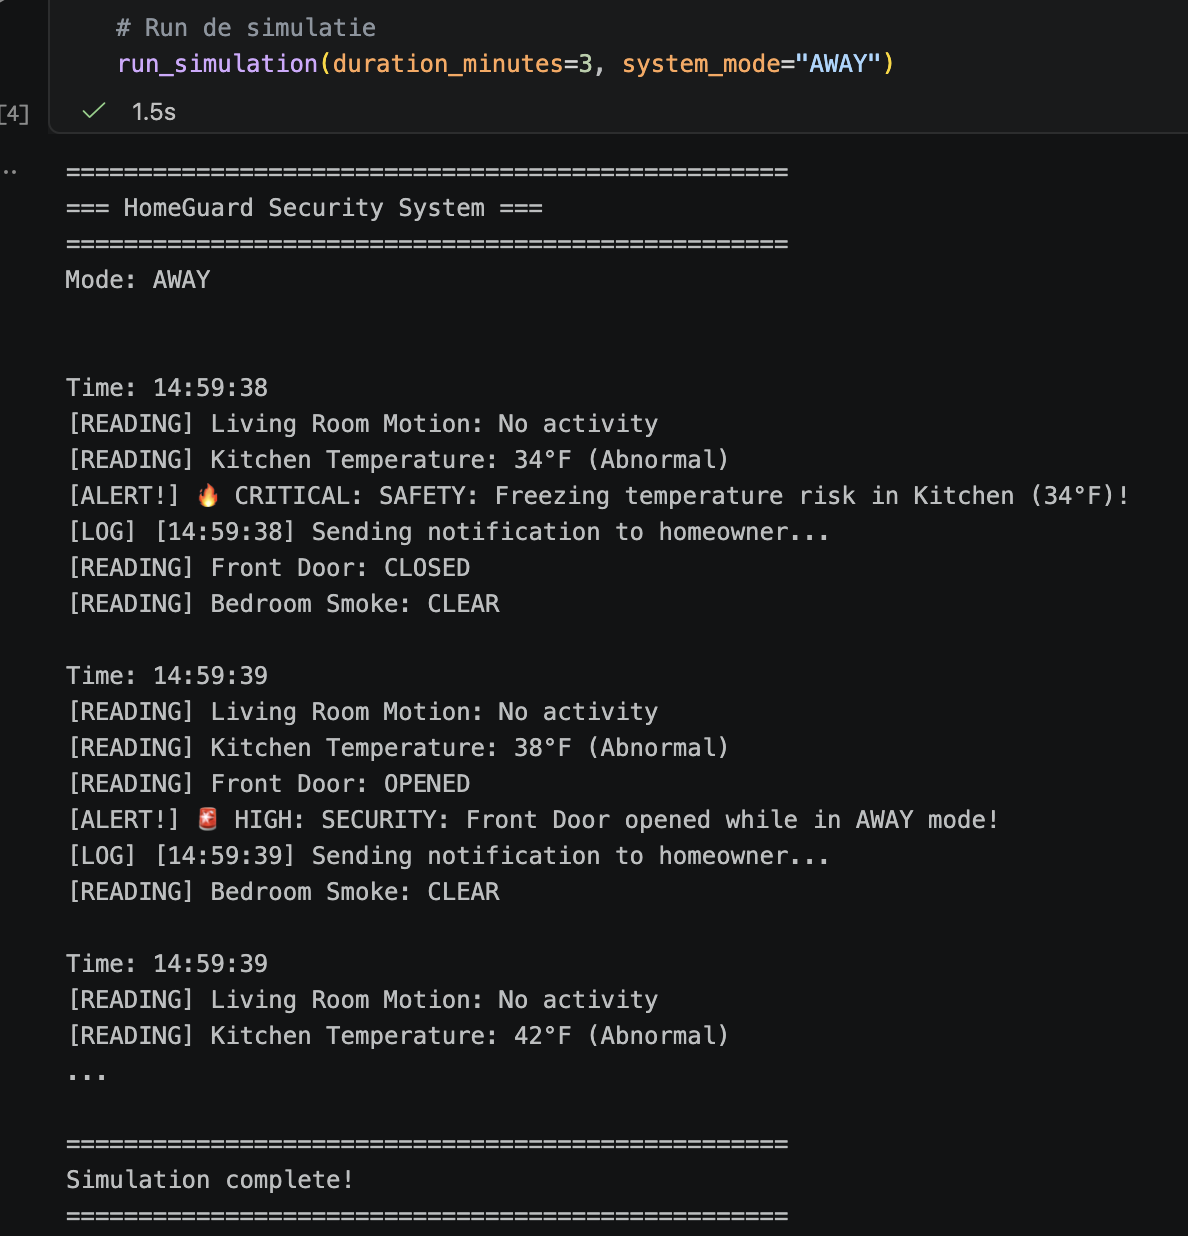
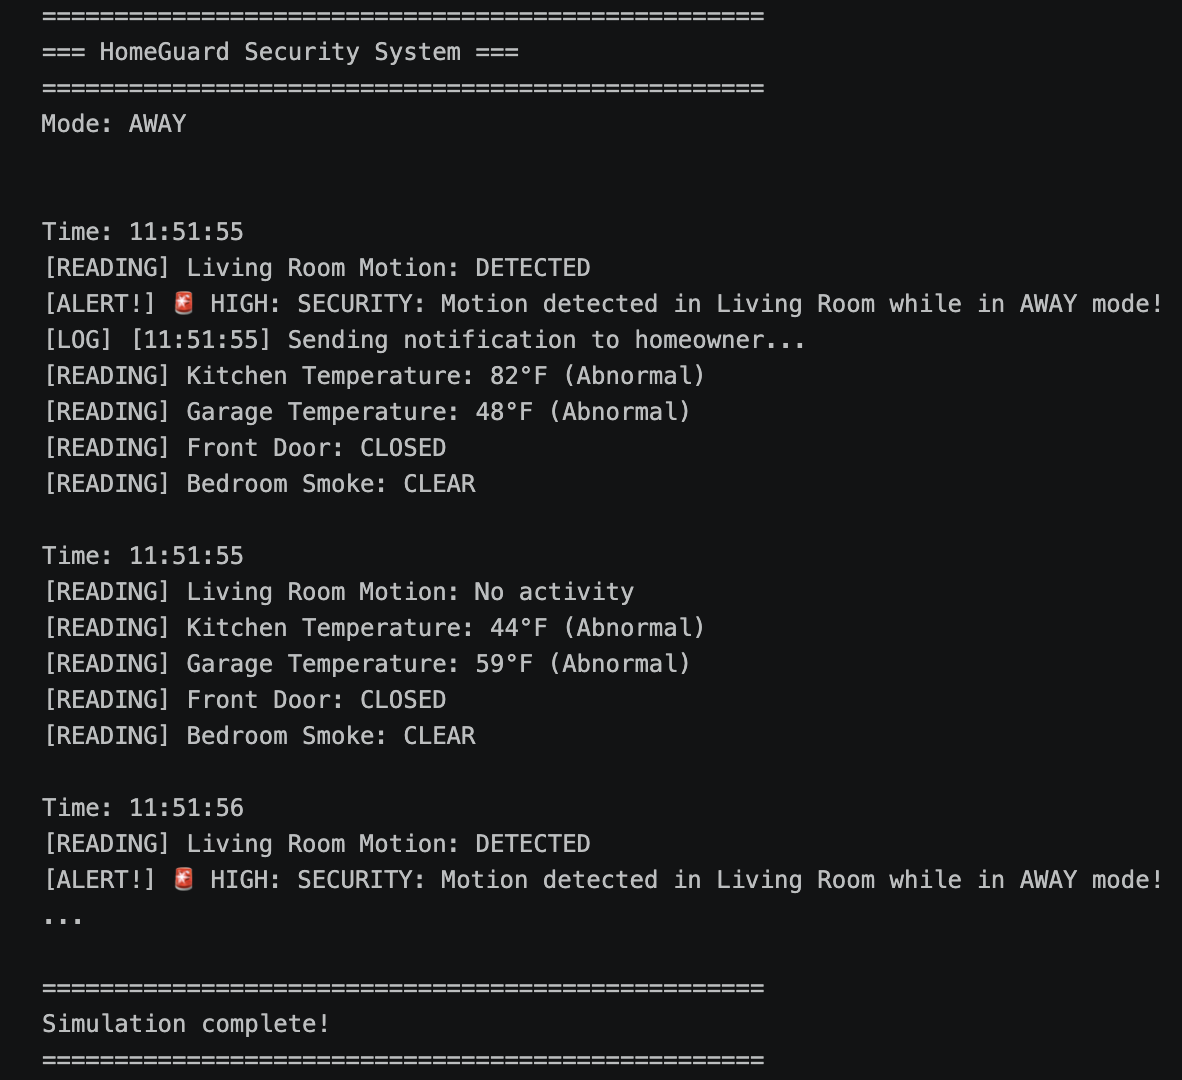
Add files via upload
Updated homeguard_system.ipynb with Challenge 4 implementation, updated lab_proof.md documentation, and refreshed simulation screenshot.

Changed region(s): [[0.0305, 0.0, 0.9746, 0.8556], [0.0305, 0.8861, 0.6701, 1.0], [0.8832, 0.3972, 0.9442, 0.4278]]

diff --git a/lab_proof.md b/lab_proof.md
@@ -1,11 +1,42 @@
-# Lab Proof: HomeGuard Security System Simulator
+# HomeGuard Security System
 
-- **Program Path:** `homeguard_system.ipynb`
-- **Run Command:** "Run All" in VS Code / Jupyter Notebook
+An integrated Python-based smart home security simulation developed and executed in a Jupyter Notebook (`.ipynb`) environment. The system models multi-sensor tracking, dynamic learning, false-alarm mitigation, and automated threat escalation.
 
-## Output Summary
-The simulator successfully executes multiple time iterations, reading sensor values (motion, temperature, door, smoke) and correctly evaluating rules against the system mode (e.g., AWAY). The output demonstrates active alerts when thresholds are breached.
+---
 
-## Edge Case Explanation
-- **Scenario:** The temperature drops to 34°F while the system is in *AWAY* mode.
-- **Handling:** The system immediately triggers a critical safety alert and logs the event to notify the homeowner, preventing potential frozen pipe damage.
+## Project Overview
+The HomeGuard Security System simulates real-time data collection across various smart sensors (motion, temperature, door status, and smoke detectors). It evaluates ambient conditions dynamically, detects critical environmental risks, and generates automated activity logs and daily reports.
+
+---
+
+## Implementation Details (Challenges 1–4)
+
+### Challenge 1: Learning Mode (`LearningModeTracker`)
+* Dynamically establishes ambient temperature baselines using historical sensor readings.
+* Identifies temperature anomalies relative to learned baseline boundaries rather than rigid static limits.
+
+### Challenge 2: False-Alarm Detection (`FalseAlarmFilter`)
+* Tracks consecutive abnormal sensor cycles to eliminate transient false alarms.
+* Only escalates threats after confirmed, sequential triggering events.
+
+### Challenge 3: Daily Summary Report (`generate_summary_report`)
+* Consolidates sensor events, total alert counts, and severity levels upon simulation completion.
+* Provides high-level operational recommendations based on aggregated system state.
+
+### Challenge 4: Interconnected Smoke & Temperature Escalation (`evaluate_interconnected_alerts`)
+* Evaluates sensor data in real-time batches.
+* Automatically escalates threat severity when smoke detection (`"DETECTED"`) coincides with elevated temperature readings across multiple zones.
+
+---
+
+## Notebook Structure & Code Flow
+1. **Module & Class Definitions**: Defines `Sensor`, `LearningModeTracker`, and `FalseAlarmFilter`.
+2. **Core Logic**: Implements `evaluate_interconnected_alerts` and `generate_summary_report`.
+3. **Simulation Execution**: `run_simulation()` manages the loop execution, processes sensor batches, and triggers report generation.
+
+---
+
+## How to Run in Jupyter Notebook
+1. Open this repository and launch the notebook file in VS Code (or Jupyter Lab).
+2. Select your Python kernel.
+3. Click **Run All** (or execute cells sequentially) to execute the simulation loop and view real-time log outputs and summary report.
